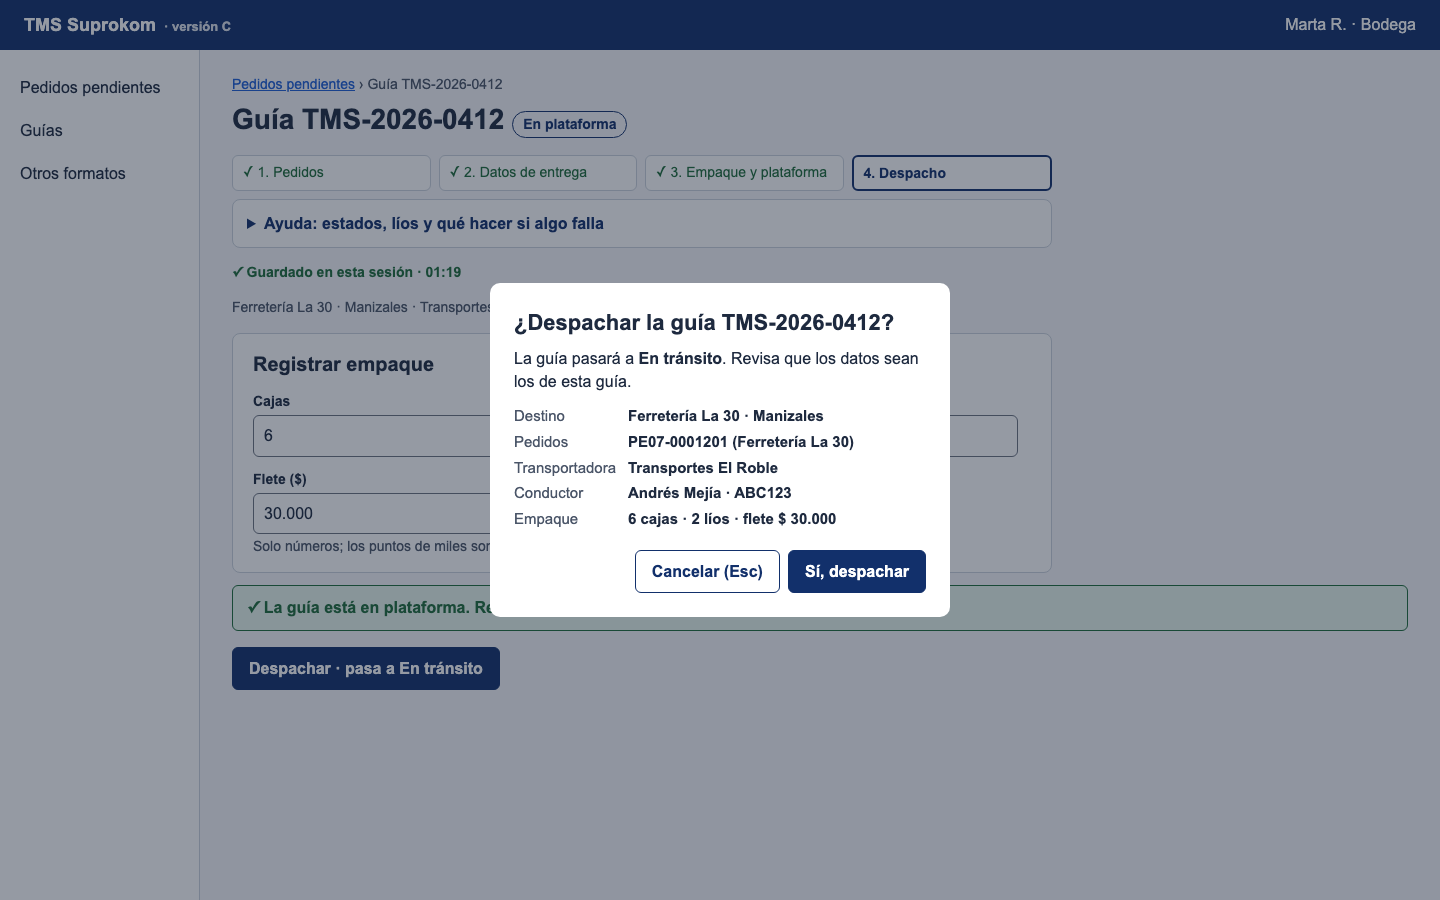
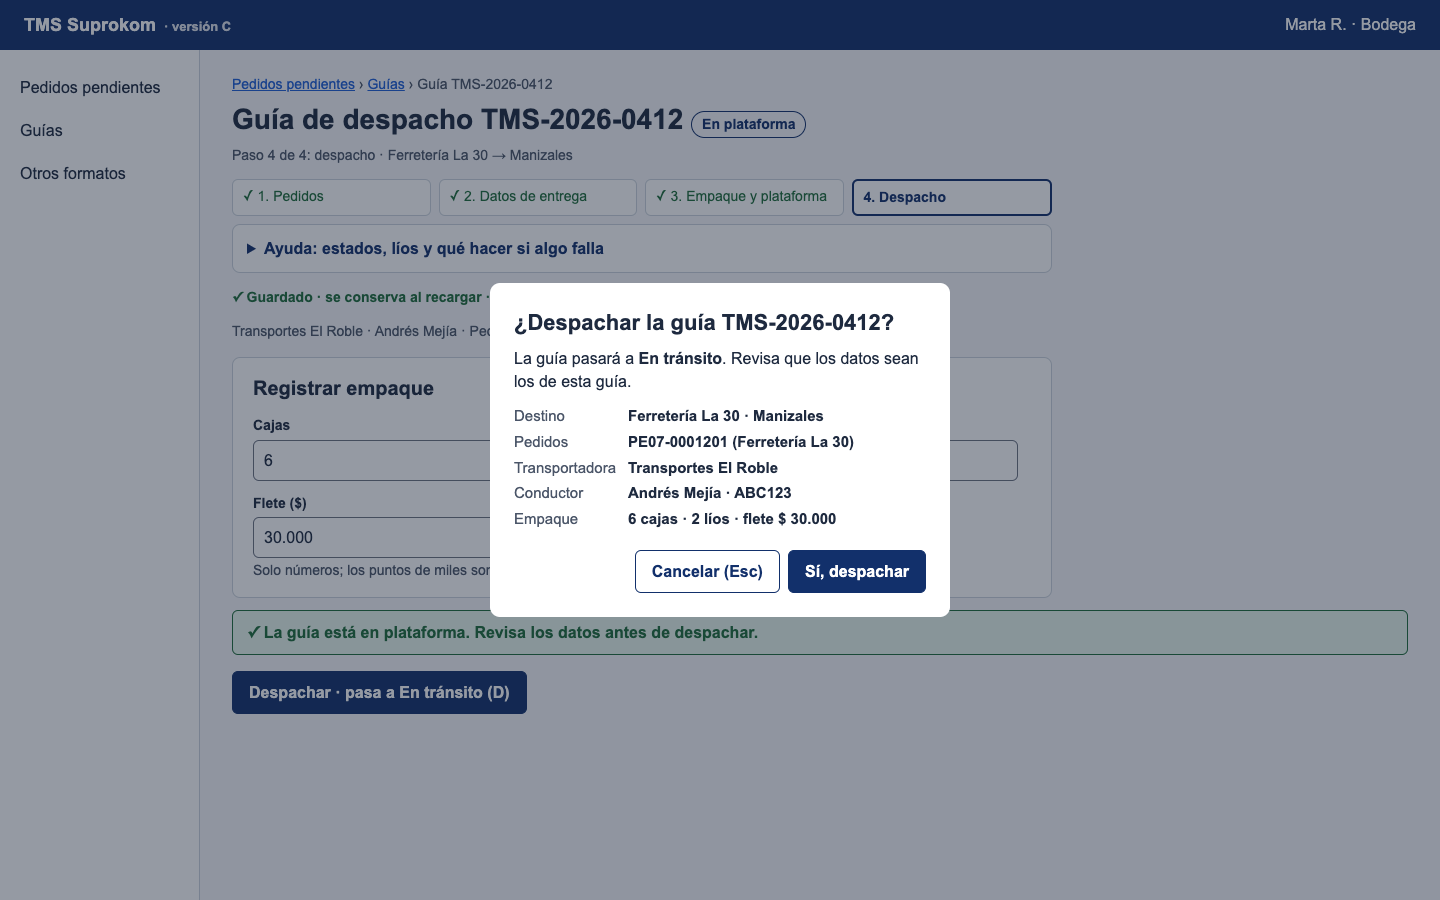
C iteración 2 (derivada de la ronda R3): Guías, retomar, deshacer desde la lista, título, conductor por transportadora y atajos
- Vista «Guías» (HZ-04) con estado y acción; el menú solo marca «Guías» ahí.
- La guía y la lista se conservan al recargar (HZ-05, localStorage, datos ficticios).
- «Deshacer despacho» también desde la lista, después de pasar a la siguiente guía (S-06).
- Título de cada pantalla de la guía con paso y destino (comentario de U02).
- Conductor por transportadora (comentario de U01 sobre la operación real; no fue un error observado).
- Atajos E, M y D (M-11); D solo abre la confirmación.
- Pruebas: iteracion2_aceptacion.js (10/10) en el pipeline; regresión HZ-01 8/8 y e2e con teclado + axe.
- La versión que probaron los usuarios el 17-oct queda en la etiqueta c-v1.

Changed region(s): [[0.1562, 0.0933, 0.5625, 0.4978], [0.1562, 0.5289, 0.5312, 0.8089], [0.4688, 0.1867, 0.7188, 0.2489]]

diff --git a/final-c/pruebas/iteracion2_aceptacion.js b/final-c/pruebas/iteracion2_aceptacion.js
@@ -1,0 +1,110 @@
+// Criterios de aceptación de la iteración 2 de C (derivada de la ronda R3, 17-oct-2026).
+// Cubre: conductor por transportadora (comentario de U01), título de la guía (U02), vista «Guías» (HZ-04),
+// retomar y conservar al recargar (HZ-05), deshacer desde la lista (S-06) y atajos E, M y D (M-11).
+// Uso: node iteracion2_aceptacion.js [URL_BASE]   (por defecto http://127.0.0.1:8765/)
+const { chromium } = require('playwright-core');
+const fs = require('fs');
+const BASE = (process.argv[2] || 'http://127.0.0.1:8765/') + 'final-c/';
+const MAC = '/Applications/Google Chrome.app/Contents/MacOS/Google Chrome';
+const exe = process.env.CHROME || (fs.existsSync(MAC) ? MAC : undefined);
+const AXE = fs.readFileSync(require.resolve('axe-core/axe.min.js'), 'utf8');
+const TAGS = ['wcag2a', 'wcag2aa', 'wcag21a', 'wcag21aa', 'wcag22aa'];
+const SHOTS = require('path').join(__dirname, 'capturas');
+
+(async () => {
+  const b = await chromium.launch(exe ? { executablePath: exe } : {});
+  const res = []; const ok = (id, cond, det) => res.push({ id, ok: !!cond, det });
+  const p = await b.newPage({ viewport: { width: 1440, height: 900 } });
+  const h1 = () => p.textContent('h1').then(t => t.replace(/\s+/g, ' ').trim());
+  const activo = () => p.evaluate(() => document.activeElement && (document.activeElement.id || document.activeElement.tagName));
+  const shot = n => p.screenshot({ path: SHOTS + '/' + n + '.png' });
+  const axe = async () => { await p.addScriptTag({ content: AXE });
+    const r = await p.evaluate(t => axe.run(document, { runOnly: { type: 'tag', values: t } }), TAGS);
+    return r.violations.filter(v => ['serious', 'critical'].includes(v.impact)).map(v => v.id); };
+
+  await p.goto(BASE);
+  await p.click('#c-PE07-0001201'); await p.click('#gen'); await p.waitForSelector('#con');
+
+  // CI-01 · el conductor depende de la transportadora y cambiarla obliga a volver a elegir
+  const opts = async () => p.$$eval('#con option', o => o.map(x => x.textContent));
+  const roble = await opts();
+  await p.selectOption('#tra', 'Rápido Caldas'); await p.waitForSelector('#con');
+  const caldas = await opts();
+  await p.selectOption('#tra', 'Transportes El Roble');
+  await p.selectOption('#con', 'Andrés Mejía · ABC123');
+  await p.selectOption('#tra', 'Rápido Caldas');
+  const reinicia = await p.inputValue('#con');
+  await p.selectOption('#tra', 'Transportes El Roble'); await p.selectOption('#con', 'Andrés Mejía · ABC123');
+  ok('CI-01', roble.length === 3 && roble.every(x => !/Mesa|Ruiz|López/.test(x)) && caldas.some(x => /Andrés Mesa/.test(x)) && !caldas.some(x => /Mejía/.test(x)) && reinicia === '',
+     `El Roble: ${roble.slice(1).join(' / ')} · Rápido Caldas: ${caldas.slice(1).join(' / ')} · al cambiar de transportadora el conductor queda «${reinicia}»`);
+
+  // CI-02 · cada pantalla de la guía tiene título descriptivo con el paso y el destino
+  const t3 = await h1(); const sub3 = await p.textContent('h1 + p.sub');
+  ok('CI-02', /Guía de despacho TMS-2026-0412/.test(t3) && /Paso 2 de 4/.test(sub3) && /Ferretería La 30/.test(sub3), `«${t3}» · «${sub3.trim()}»`);
+  await shot('C13_titulo_y_conductor_por_transportadora');
+
+  // CI-03 · atajos E, M y D; D solo abre la confirmación y no despacha (HZ-01 se mantiene)
+  await p.click('h1'); await p.keyboard.press('e'); await p.waitForSelector('#mov');
+  const trasE = await h1();
+  await p.keyboard.press('m'); await p.waitForTimeout(1100);
+  await p.click('#retry'); await p.waitForSelector('#desp');
+  await p.keyboard.press('d'); await p.waitForSelector('[role=alertdialog]');
+  const dialogo = await p.$('[role=alertdialog]') !== null, aunPlat = (await h1()).includes('En plataforma');
+  await p.keyboard.press('Escape');
+  ok('CI-03', /En preparación/.test(trasE) && dialogo && aunPlat, `E → «${trasE}» · M mueve y recupera · D abre la confirmación=${dialogo} y la guía sigue En plataforma=${aunPlat}`);
+
+  // CI-04 · recargar conserva la guía, su estado y lo escrito (HZ-05)
+  await p.fill('#caj', '5');
+  await p.reload(); await p.waitForSelector('#caj');
+  const trasRecarga = await h1(), caj = await p.inputValue('#caj');
+  ok('CI-04', /En plataforma/.test(trasRecarga) && caj === '5', `tras recargar: «${trasRecarga}» · cajas=${caj}`);
+  await p.fill('#caj', '6');
+
+  // CI-05 · despachar, pasar a la siguiente guía y deshacer desde «Guías» (S-06)
+  await p.click('#desp'); await p.click('#confirm'); await p.waitForSelector('#undo');
+  await p.click('#next'); await p.waitForSelector('#q');
+  await p.click('nav[aria-label="Menú principal"] a[href="#guias"]'); await p.waitForSelector('[data-deshacer]');
+  const fila = (await p.textContent('tbody tr')).replace(/\s+/g, ' ');
+  const menu = await p.$eval('nav[aria-label="Menú principal"] [aria-current]', e => e.textContent);
+  await shot('C14_guias_con_deshacer');
+  const serias = await axe();
+  ok('CI-06', /TMS-2026-0412/.test(fila) && /En tránsito/.test(fila) && menu === 'Guías' && serias.length === 0,
+     `lista: «${fila.trim()}» · menú marcado: ${menu} · axe serias: ${serias.join(',') || 'ninguna'}`);
+  await p.click('[data-deshacer]'); await p.waitForSelector('#platmsg');
+  ok('CI-05', /TMS-2026-0412/.test(await h1()) && /En plataforma/.test(await h1()) && /Se deshizo/.test(await p.textContent('#platmsg')),
+     `deshacer desde Guías: «${await h1()}»`);
+  const menuDentro = await p.$$eval('nav[aria-label="Menú principal"] [aria-current]', e => e.length);
+  ok('CI-07', menuDentro === 0, `dentro de una guía el menú no marca «Pedidos pendientes» ni «Guías» (${menuDentro} marcados)`);
+
+  // CI-08 · retomar desde la lista y que la lista sobreviva a recargar
+  await p.click('nav[aria-label="Menú principal"] a[href="#guias"]'); await p.waitForSelector('[data-retomar]');
+  await p.reload(); await p.waitForSelector('[data-retomar]');
+  const sigue = /TMS-2026-0412/.test(await p.textContent('tbody'));
+  await p.click('[data-retomar]'); await p.waitForSelector('#desp');
+  ok('CI-08', sigue && /En plataforma/.test(await h1()), `la lista sobrevive a recargar=${sigue} · retomar abre «${await h1()}»`);
+
+  // CI-09 · una guía interrumpida en «Pendiente» también se puede retomar
+  const q = await b.newPage({ viewport: { width: 1440, height: 900 } });
+  await q.goto(BASE); await q.click('#c-PE31-0001202'); await q.click('#gen'); await q.waitForSelector('#con');
+  await q.click('a[href="#guias"]', { timeout: 3000 }).catch(() => {});
+  await q.click('nav[aria-label="Menú principal"] a[href="#guias"]'); await q.waitForSelector('tbody tr');
+  const fila2 = (await q.textContent('tbody tr')).replace(/\s+/g, ' ');
+  await q.click('[data-retomar]'); await q.waitForSelector('#con');
+  ok('CI-09', /Pendiente/.test(fila2) && /Agro El Cafetal/.test(fila2) && /Paso 2 de 4/.test(await q.textContent('h1 + p.sub')),
+     `guía interrumpida: «${fila2.trim()}» → retomar vuelve al paso 2`);
+  await q.close();
+  await p.close();
+
+  // CI-10 · a 390 px, sin desplazamiento horizontal en la lista de guías
+  const m = await b.newPage({ viewport: { width: 390, height: 844 } });
+  await m.goto(BASE + '#guias'); await m.waitForTimeout(200);
+  ok('CI-10', await m.evaluate(() => document.documentElement.scrollWidth <= window.innerWidth), 'Guías a 390 px sin desplazamiento horizontal');
+  await m.close();
+  await b.close();
+
+  console.log(`Aceptación de la iteración 2 de C · ${new Date().toISOString()} · base ${BASE}`);
+  for (const r of res.sort((a, c) => a.id.localeCompare(c.id))) console.log(`${r.ok ? 'PASA ' : 'FALLA'} ${r.id}  ${r.det}`);
+  const n = res.filter(r => r.ok).length;
+  console.log(`\nResumen: ${n}/${res.length} pasan`);
+  process.exitCode = n === res.length ? 0 : 1;
+})();

diff --git a/final-c/ITERACION2_R3.md b/final-c/ITERACION2_R3.md
@@ -1,0 +1,45 @@
+# Versión C · Iteración 2 (derivada de la ronda R3, 17-oct-2026)
+
+**Versión anterior:** etiqueta `c-v1` (commit 1043e33): es la versión que probaron U01 y U02 el 17-oct. Esta iteración **no cambia esa evidencia**; se registra como una iteración nueva.
+**A no cambia:** `/final/` sigue idéntico a V1.
+
+## Origen de cada cambio
+
+| Cambio | Origen | Qué se observó |
+|---|---|---|
+| **Vista «Guías»** con estado, última actualización y acción; el menú resalta «Guías» solo ahí | HZ-04 (sev. 3) · NT-IA-E1-P4.1 y P1.2 | En A y en C, «Guías» abría Pedidos pendientes y no había forma de reencontrar una guía. |
+| **Retomar una guía interrumpida; se conserva al recargar** (`localStorage`, solo datos ficticios) | HZ-05 (sev. 3) · U02: «cuando estoy llenando la información de la guía y paso a otro proceso se pierde la información» · U01: «falta historial» | Al recargar, el estado se perdía. |
+| **Deshacer despacho desde «Guías»**, también después de pasar a la siguiente guía | S-06 · comentario de uno de los usuarios en C: «es muy importante para la operación, ya que somos humanos y cometemos errores» | En C, al pasar a la siguiente guía el despacho volvía a ser irreversible (CA-07). La condición de HZ-01 («mientras sigas en P5») sigue válida; esta iteración agrega otra vía. |
+| **Título de cada pantalla de la guía** con paso y destino | U02: «cuando se llena la guía no tiene título, solo el número» (NT-U02-P1.1) | La guía solo mostraba el número. |
+| **Conductor por transportadora** (3 transportadoras y 5 conductores ficticios) | **Comentario de U01 sobre la operación real**: a veces se elige el conductor equivocado. **No fue un error observado en C**: nadie eligió mal durante la sesión. | Con un solo conductor, el riesgo no se podía ver. Se agregaron dos «Andrés» de transportadoras distintas para hacerlo visible. |
+| **Atajos E, M y D** (D solo abre la confirmación) | M-11 (aceptada por el equipo contra la recomendación de la IA) · NT-U02-P6.1: «solo hay un atajo, es la G» | Solo existía G. D no despacha: HZ-01 se mantiene. |
+
+## Criterios de aceptación (`pruebas/iteracion2_aceptacion.js`)
+
+| ID | Criterio |
+|---|---|
+| CI-01 | El conductor depende de la transportadora; al cambiarla hay que volver a elegir. |
+| CI-02 | Cada pantalla de la guía tiene título con el número, el paso y el destino. |
+| CI-03 | E, M y D activan los botones visibles; D abre la confirmación y la guía sigue En plataforma. |
+| CI-04 | Recargar en En plataforma conserva la guía, el estado y lo escrito (HZ-05). |
+| CI-05 | Una guía despachada se puede deshacer desde «Guías» después de pasar a la siguiente (S-06). |
+| CI-06 | «Guías» lista las guías con su estado; el menú la marca; axe sin infracciones serias. |
+| CI-07 | Dentro de una guía el menú no marca «Pedidos pendientes» ni «Guías». |
+| CI-08 | La lista sobrevive a recargar y «Retomar» abre la guía en su estado. |
+| CI-09 | Una guía interrumpida en «Pendiente» se puede retomar y vuelve al paso 2. |
+| CI-10 | «Guías» a 390 px sin desplazamiento horizontal. |
+
+## Resultados (17-oct-2026, sobre el código local antes de publicar)
+
+- Iteración 2: **10 de 10** (`pruebas/resultado_2026-10-17_iteracion2.txt`).
+- Aceptación de HZ-01 (regresión): **C 8 de 8**; A, 0 de 7 en la línea base, es decir, falla los 2 criterios que se pueden ejecutar (`resultado_2026-10-17_hz01.txt`).
+- Recorrido solo con teclado + axe, 1440 y 390 px: todas las comprobaciones pasan (`resultado_2026-10-17_e2e.txt`).
+- Reflujo a 320 y 390 px en 7 pantallas (incluida «Guías»): sin desplazamiento horizontal.
+- Categorías de WAVE medidas con axe: 0 fallas.
+
+## Qué no cubre (límites)
+
+- **Ningún usuario real ha probado esta iteración todavía.** Las pruebas verifican la especificación. Que U01 y U02 repitan T1 y T2 sobre ella queda pendiente (ver `taller6`).
+- Las guías se guardan solo en el navegador (`localStorage`): no hay servidor ni sincronización entre equipos. Las horas y la búsqueda siguen simuladas.
+- «Ver siguiente guía» sigue llevando a Pedidos pendientes, porque desde ahí se crea la siguiente; la lista completa está en «Guías».
+- El conductor por transportadora responde a un comentario, no a un error observado.
